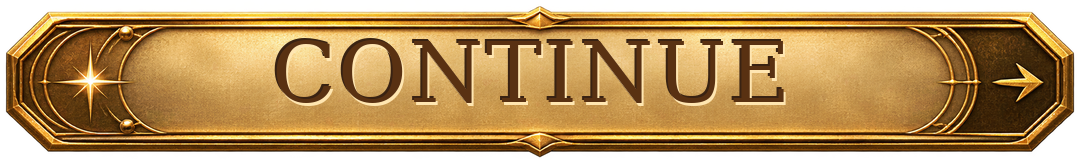
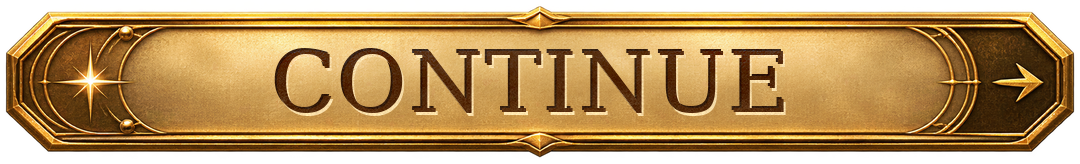
Center engraved title menu text (v0.97.2)

Changed region(s): [[0.2444, 0.2134, 0.7333, 0.7012]]

diff --git a/tests/test_title_plaque_alignment.py b/tests/test_title_plaque_alignment.py
@@ -1,0 +1,28 @@
+"""Regression checks for v0.97.2 centered plaque engraving."""
+from pathlib import Path
+
+import pytest
+
+PIL = pytest.importorskip("PIL.Image")
+np = pytest.importorskip("numpy")
+
+ASSETS = Path(__file__).resolve().parents[1] / "assets/title"
+LABELS = ("continue", "new-game", "load-game", "settings", "quit")
+
+
+@pytest.mark.parametrize("variant", ("gold", "blue"))
+@pytest.mark.parametrize("label", LABELS)
+def test_lettering_is_optically_centered(variant, label):
+    blank = np.asarray(PIL.open(ASSETS / f"plaque-{variant}-v1.png").convert("RGBA"), dtype=np.int16)
+    engraved = np.asarray(PIL.open(ASSETS / f"plaque-{label}-{variant}-v1.png").convert("RGBA"), dtype=np.int16)
+    assert blank.shape == engraved.shape == (164, 1080, 4)
+    # The blank background is identical. An RGB difference greater than 20
+    # detects the engraved lettering rather than the gold/blue decoration.
+    pixel_difference = np.abs(engraved[:, :, :3] - blank[:, :, :3]).max(axis=2)
+    ys, xs = np.where(pixel_difference > 20)
+    assert len(ys) > 1000
+    assert 78 <= np.median(ys) <= 85, (label, variant, np.median(ys))
+    # All glyphs retain their top common cap line, including the Q descender.
+    assert 47 <= ys.min() <= 49
+    if label != "quit":
+        assert 114 <= ys.max() <= 116

diff --git a/orion/__init__.py b/orion/__init__.py
@@ -1,4 +1,4 @@
 """Age of the Stars, built in the existing orion package."""
 
 GAME_TITLE = "Age of the Stars"
-__version__ = "0.97.1"
+__version__ = "0.97.2"

diff --git a/docs/title-text-centering.md b/docs/title-text-centering.md
@@ -1,0 +1,35 @@
+# v0.97.2 — vertical alignment of engraved title text
+
+v0.97.1 baked the menu captions into the gold/blue PNG sprites. Their main
+capital-letter band occupied source-image rows 38–105 (midpoint 71.5),
+although the 164-pixel-high button skin is centered at row 81.5.
+
+This patch moves only the pre-existing lettering and its engraved shading
+down **10 source-image pixels**, or approximately **4 pixels** when the game
+renders a 66-pixel-high button. The original blank skin remains unchanged;
+all engraved relief, metallic borders, arrow emblems and decoration remain.
+
+Every interactive menu label (New Game, Load Game, Settings, Quit and Continue)
+has both color variants updated. Quit has a slightly lower glyph extremity
+because of the Q descender; it shares the same capital-letter baseline.
+
+## Install
+
+Extract the ZIP into your **v0.97.1** repository, overwriting the files in
+`assets/title/` and the small documentation/version files. Restart the game.
+No save migration or controls changes are required.
+
+## Verification
+
+```bash
+python -m pytest tests/test_title_plaque_alignment.py -q
+```
+
+## Commit
+
+```bash
+git status
+git add orion/__init__.py README.md docs/title-text-centering.md tests/test_title_plaque_alignment.py assets/title/plaque-*.png screenshots/title_engraved_buttons.png
+git commit -m "Center engraved title-menu lettering (v0.97.2)"
+git push
+```

diff --git a/README.md b/README.md
@@ -1,4 +1,4 @@
-# Age of the Stars — Python prototype 0.97.1
+# Age of the Stars — Python prototype 0.97.2
 
 A playable colony-building and interstellar expansion prototype with a modular ship designer, guarded treasure worlds, population growth, local food, conquest, scientific and council victories, fleet combat, research, races, diplomacy and all 13 civilizations in one campaign for a
 MOO2-inspired space strategy game.
@@ -6,6 +6,17 @@ The repository and Python package retain the name **Orion Reach**. The artwork, 
 in this project are original; no Master of Orion artwork or game data is included.
 
 ![Main menu](screenshots/menu.png)
+
+## New in v0.97.2 — centered engraved lettering
+
+The main-menu plaque inscriptions were positioned a little too high. Their
+beveled lettering now sits at the vertical center of the plaque, with the same
+underlying gold and blue metal textures. Both states of **New Game**, **Load
+Game**, **Settings**, **Quit** and **Continue** are corrected. This visual-only
+update does not alter click regions, keyboard navigation, or saves.
+
+Extract this **incremental patch over v0.97.1**. See
+[the alignment notes](docs/title-text-centering.md).
 
 ## New in v0.97.1 — engraved main-menu buttons
 
